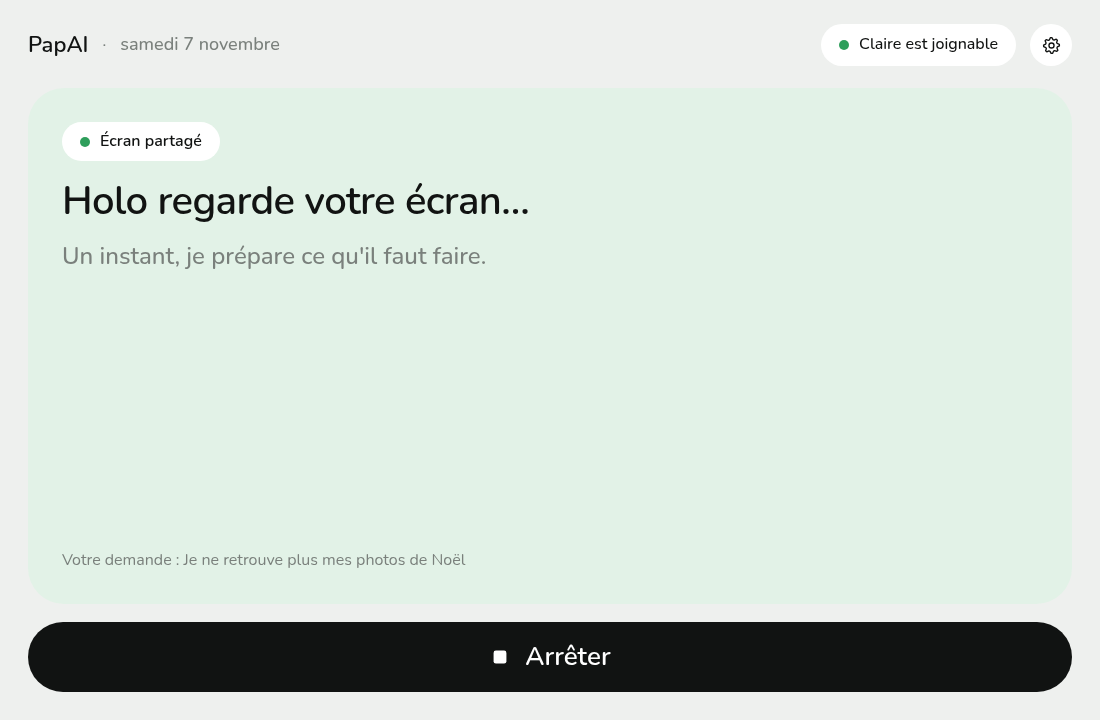
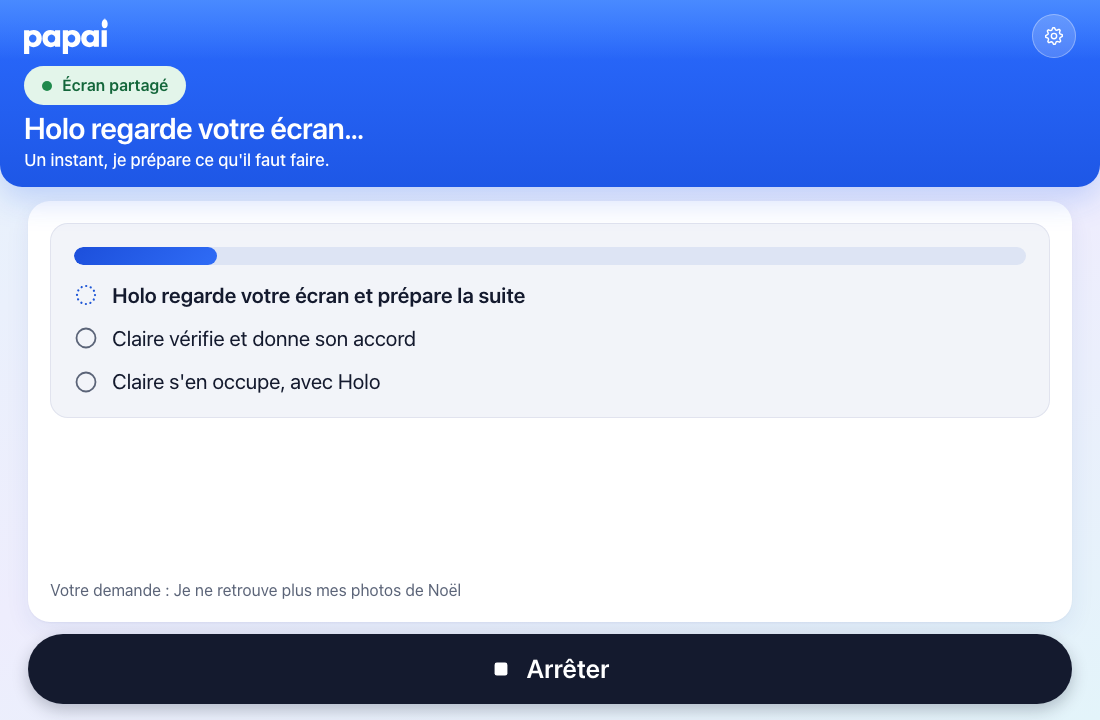
Windows : captures de démonstration, README et journal du restylage
Claude-Session: https://claude.ai/code/session_01Lp2MYMZNKRAvWK8QUCtXVU

diff --git a/AGENTS.md b/AGENTS.md
@@ -51,6 +51,7 @@ Ne jamais fusionner, rebaser ni rouvrir de PR pour ces branches, sauf demande ex
 
 | Date | Agent | Branche | Fait |
 |---|---|---|---|
+| 8 nov. | Claude | `claude/design-windows` | Restylage de l'app Windows d'après la maquette de Corentin, forme seule (`apps/windows/ui/style.css`, présentation de `ui/app.js`) : en-tête en dégradé bleu portant le titre blanc de chaque écran (salutation et champ de demande à l'accueil, titres d'assistance, consentement, automate, accueil en 4 étapes, proposition, liaison, ticket), fond bleu lavande, cartes blanches à ombre douce, pastilles pâles (écran partagé, hors connexion, avertissement, demande en attente), pilule principale bleue avec ombre bleue, bandeaux bleus des feuilles, encart à bandeau bleu ; arrêt par le gardien et alertes en rouge (en-tête, bandeau et bouton). Contrastes AA vérifiés, zones cliquables portées à 44 px (réglages, encart, segments), en-tête resserré sous 720 px de haut. Textes, actions et parcours inchangés. Tests Windows 112, accueil Python OK, JS 11. Captures de démonstration régénérées (`screenshots/01` à `17`) ; comparaisons Mac (`compare-*`) non refaites. Pas d'essai sur un vrai Windows (WebView2). Fichiers libérés. |
 | 8 nov. | Devin | `devin/1794101389-accueil-deux-colonnes` | Accueil Mac revenu à deux colonnes, 60/40 : à gauche salutation, petite mascotte, barre de demande réduite (hauteur 68→52 pt, texte 20→18, micro 48→36 pt visible / 44 pt cliquable, Envoyer 48→44 pt) puis « Mes automates » ; à droite « Applications récentes » centrées verticalement (6 max, `AppUsage.recent` par date du dernier passage au premier plan, classiques en complément ; `top` inchangé). La gauche garde au moins 540 pt × taille du texte pour ne pas couper la barre ; sinon la droite passe dessous. Build CLI zéro erreur, gardien 14, parcours 27. Captures 1280×800, 900×640 et 900×640 Très grande. Dictée réelle et clic réel sur une application non essayés. Fichiers libérés. |
 | 8 nov. | Devin | `devin/1794097993-dictee-gladia-direct` | Compatibilité avec le registre multi-espaces de main : fixture d'authentification actualisée, test du direct avec la clé d'un second espace. Route live et routes d'import d'automates conservées ensemble. 17 tests live, parcours 27, gardien 14, lint ciblé et builds Mac/iOS régénérés réussis. Fichiers libérés. |
 | 8 nov. | Devin | `devin/1794097993-dictee-gladia-direct` | PR #52, revue automatique : arrêt « rien entendu » fondé sur les mots Apple ou Gladia reconnus, et non sur le seul texte affiché. Cas Apple continu/Gladia retardé/niveau ignoré reproduit puis corrigé sur Mac et iPhone ; assertions Swift ajoutées, 16 tests live et deux builds régénérés réussis. Fichiers libérés. |

diff --git a/apps/windows/README.md b/apps/windows/README.md
@@ -37,9 +37,12 @@ Puis lancer l'app Windows, et ouvrir la page aidant `http://<serveur>:8000/a/dem
 ## Technologie : Python + pywebview (WebView2)
 
 - **Rendu le plus proche de SwiftUI** : l'interface est en HTML/CSS (`ui/`), qui
-  reprend tel quel les jetons de `Theme.swift` (couleurs, rayons 28/36, pilules,
-  tailles de police en points) et la structure de chaque `*View.swift`. La police
-  Nunito (OFL, embarquée) remplace SF Rounded, absente de Windows.
+  reprend les tailles de police en points et la structure de chaque `*View.swift`.
+  Le design suit la maquette commune (8 nov.) : en-tête en dégradé bleu qui porte
+  le titre de l'écran en blanc (et le champ de demande à l'accueil), fond bleu
+  lavande très clair, cartes blanches à ombre douce, pastilles d'état pâles,
+  bouton principal en pilule bleue ; l'arrêt par le gardien et ses alertes
+  passent en rouge. Police : Segoe UI, celle de Windows (Nunito reste embarquée).
 - **Se lance facilement** : WebView2 est fourni par Windows ; Python et deux
   fichiers `.bat` suffisent. Pas de Visual Studio, pas de compilation.
 - **Réutilise le prototype** (`archive/windows-7-nov`) : capture (mss), clics et
